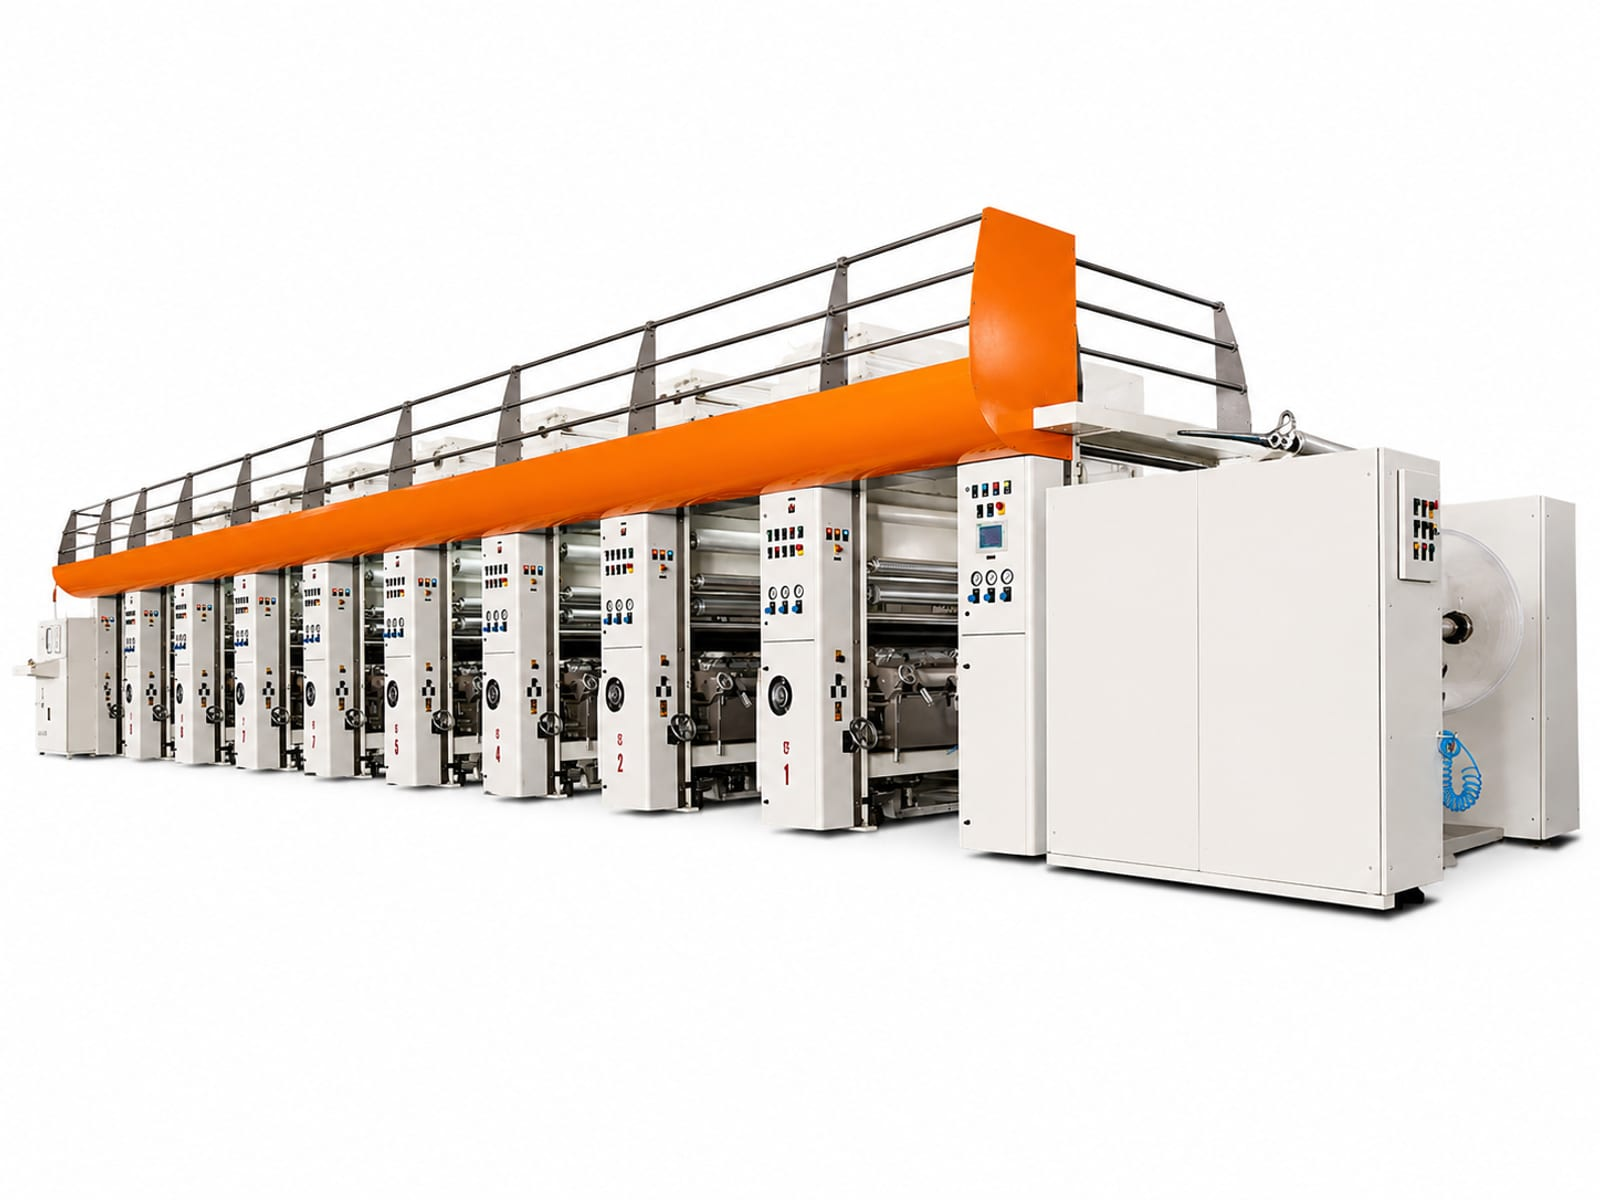
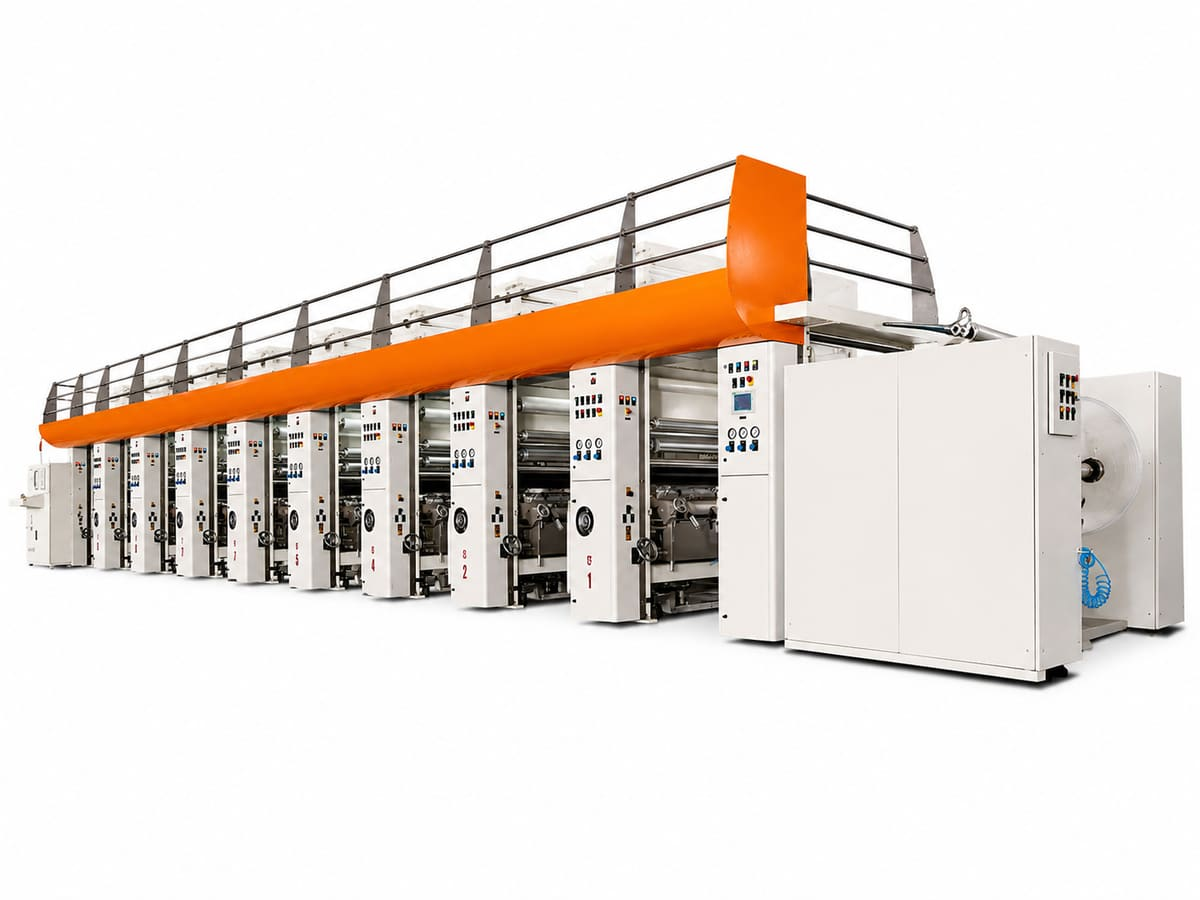
Iteration 16: mobile performance pass
JS bundle cuts (~50KB gzipped saved):
- Removed framer-motion entirely (was top-level dep)
- Hero, HowItWorks, MachinerySection, TrustStrip, TrustedBy:
  CSS keyframes for fade-up/marquee instead of motion.div
- Hero & TrustStrip no longer 'use client' (server-rendered)

LCP improvements:
- Hero image: re-optimized 2000x1250 → 1600x1000 @ q78 (271KB → 173KB)
- factory-hero: 324KB → 225KB
- factory-1: 116KB → 68KB
- Added fetchPriority='high' on hero <Image>
- Tightened Hero sizes prop: 50vw lg, 100vw mobile

Lazy-loading:
- ApplicationCard, ProductCard: loading='lazy' on all 21+ images
- MachineryRotator: only first image eager, others lazy
- ImageCarousel: only active image eager, gallery rest lazy

Other:
- Mobile carousel cap (max-w-sm) on product/app detail pages

diff --git a/src/components/Hero.tsx b/src/components/Hero.tsx
@@ -1,42 +1,29 @@
-'use client';
-
 import Link from 'next/link';
 import Image from 'next/image';
-import { motion } from 'framer-motion';
 import { ArrowRight, MessageCircle } from 'lucide-react';
 import { SITE, whatsappLink } from '@/lib/site';
-
-const fadeUp = {
-  hidden: { opacity: 0, y: 24 },
-  show: (i: number) => ({
-    opacity: 1,
-    y: 0,
-    transition: { duration: 0.7, delay: i * 0.08, ease: [0.22, 1, 0.36, 1] as const },
-  }),
-};
 
 export default function Hero() {
   return (
     <section className="relative">
       <div className="container-x relative grid lg:grid-cols-12 gap-10 lg:gap-12 items-center pt-12 lg:pt-20 pb-12 lg:pb-24">
-        {/* Left: Headline + CTAs */}
-        <div className="lg:col-span-6 xl:col-span-6">
-          <motion.span className="pill" initial="hidden" animate="show" variants={fadeUp} custom={0}>
+        <div className="lg:col-span-6 xl:col-span-6 hero-fade">
+          <span className="pill">
             <span className="w-2 h-2 rounded-full bg-success animate-pulse-soft" />
             Manufacturing in Kolkata since {SITE.foundedYear}
-          </motion.span>
+          </span>
 
-          <motion.h1 className="heading-xl mt-5" initial="hidden" animate="show" variants={fadeUp} custom={1}>
+          <h1 className="heading-xl mt-5">
             Custom flexible packaging,{' '}
             <span className="serif-accent">engineered</span> in Kolkata.
-          </motion.h1>
+          </h1>
 
-          <motion.p className="lede mt-5 max-w-xl" initial="hidden" animate="show" variants={fadeUp} custom={2}>
-            Rotogravure-printed pouches and rolls for atta, namkeen, tea, masala, dairy and more -
+          <p className="lede mt-5 max-w-2xl">
+            Rotogravure-printed pouches and rolls for atta, namkeen, tea, masala, dairy and more —
             built in West Bengal, shipped across India. MOQ from {SITE.stats.minOrderKg}&nbsp;kg.
-          </motion.p>
+          </p>
 
-          <motion.div className="mt-7 flex flex-wrap gap-3" initial="hidden" animate="show" variants={fadeUp} custom={3}>
+          <div className="mt-8 flex flex-wrap gap-3">
             <Link href="/contact" className="btn-primary text-base">
               Get a Quote <ArrowRight className="w-4 h-4" />
             </Link>
@@ -49,67 +36,49 @@ export default function Hero() {
             >
               <MessageCircle className="w-4 h-4" /> WhatsApp
             </a>
-          </motion.div>
+          </div>
 
-          <motion.div
-            className="mt-7 flex flex-col sm:flex-row sm:items-center flex-wrap gap-x-6 gap-y-2 text-sm text-ink-500"
-            initial="hidden" animate="show" variants={fadeUp} custom={4}
-          >
+          <div className="mt-10 flex flex-col sm:flex-row sm:items-center flex-wrap gap-x-6 gap-y-2 text-sm text-ink-500">
             <span><strong className="text-ink-900 font-semibold">{SITE.stats.yearsInBusiness}+</strong> years in business</span>
             <span className="hidden sm:block w-1 h-1 rounded-full bg-ink-400 opacity-50" />
             <span><strong className="text-ink-900 font-semibold">8-colour</strong> rotogravure</span>
-            <span className="hidden sm:block w-1 h-1 rounded-full bg-ink-400 opacity-50" />
-            <span><strong className="text-ink-900 font-semibold">300 kg</strong> minimum order</span>
-          </motion.div>
+          </div>
         </div>
 
-        {/* Right: Hero image with full landscape display */}
-        <motion.div
-          className="lg:col-span-6 xl:col-span-6 relative"
-          initial={{ opacity: 0, scale: 0.96, y: 20 }}
-          animate={{ opacity: 1, scale: 1, y: 0 }}
-          transition={{ duration: 0.9, delay: 0.3, ease: [0.22, 1, 0.36, 1] }}
-        >
+        <div className="lg:col-span-6 xl:col-span-6 relative hero-fade-img">
           <div className="relative aspect-[16/10] sm:aspect-[16/10] rounded-3xl overflow-hidden glass p-2 shadow-glass">
             <div className="relative w-full h-full rounded-2xl overflow-hidden bg-white">
               <Image
                 src="/images/hero/hero-1.jpg"
-                alt="Arihant Packaging - custom flexible packaging manufactured in Kolkata"
+                alt="Custom printed flexible packaging pouches by Arihant Packaging"
                 fill
                 priority
-                sizes="(min-width:1280px) 640px, (min-width:1024px) 50vw, 100vw"
+                fetchPriority="high"
+                sizes="(min-width:1024px) 50vw, 100vw"
                 className="object-cover object-center"
               />
+              <div className="absolute inset-x-0 bottom-0 bg-gradient-to-t from-ink-900/75 via-ink-900/10 to-transparent p-5">
+                <div className="text-white font-semibold">Stand-up zipper pouches</div>
+                <div className="text-white/80 text-sm">Retail-ready format</div>
+              </div>
             </div>
           </div>
 
-          {/* Floating glass cards */}
-          <motion.div
-            className="hidden md:flex absolute bottom-5 left-5 items-center gap-3 px-4 py-3 rounded-2xl glass-strong animate-floaty"
-            initial={{ opacity: 0, x: -20 }}
-            animate={{ opacity: 1, x: 0 }}
-            transition={{ delay: 0.9, duration: 0.6 }}
-          >
+          <div className="hidden lg:flex absolute bottom-24 -left-4 items-center gap-3 px-4 py-3 rounded-2xl glass-strong animate-floaty">
             <div className="w-9 h-9 rounded-xl grid place-items-center text-white text-xs font-bold" style={{ backgroundImage: 'linear-gradient(135deg, #1F4E79, #2F6FB0)' }}>8</div>
             <div>
-              <div className="font-bold text-ink-900 leading-none text-sm">Up to 8 colours</div>
-              <div className="text-[10px] uppercase tracking-wider text-ink-700 mt-1">Rotogravure</div>
+              <div className="font-bold text-ink-900 leading-none">Up to 8 colours</div>
+              <div className="text-[11px] uppercase tracking-wider text-ink-700 mt-1">Rotogravure</div>
             </div>
-          </motion.div>
-          <motion.div
-            className="hidden md:flex absolute top-5 right-5 items-center gap-3 px-4 py-3 rounded-2xl glass-strong animate-floaty"
-            style={{ animationDelay: '-3s' }}
-            initial={{ opacity: 0, x: 20 }}
-            animate={{ opacity: 1, x: 0 }}
-            transition={{ delay: 1.1, duration: 0.6 }}
-          >
-            <div className="w-9 h-9 rounded-xl bg-brand-50 border border-brand-100 grid place-items-center text-brand-600 text-xs font-bold">kg</div>
+          </div>
+          <div className="hidden lg:flex absolute top-16 -right-4 items-center gap-3 px-4 py-3 rounded-2xl glass-strong animate-floaty" style={{ animationDelay: '-3s' }}>
+            <div className="w-9 h-9 rounded-xl bg-brand-50 border border-brand-100 grid place-items-center text-brand-600 text-sm font-bold">kg</div>
             <div>
-              <div className="font-bold text-ink-900 leading-none text-sm">From 300 kg</div>
-              <div className="text-[10px] uppercase tracking-wider text-ink-700 mt-1">Minimum order</div>
+              <div className="font-bold text-ink-900 leading-none">From 300 kg</div>
+              <div className="text-[11px] uppercase tracking-wider text-ink-700 mt-1">Minimum order</div>
             </div>
-          </motion.div>
-        </motion.div>
+          </div>
+        </div>
       </div>
     </section>
   );

diff --git a/src/components/TrustedBy.tsx b/src/components/TrustedBy.tsx
@@ -1,7 +1,3 @@
-'use client';
-
-import { motion } from 'framer-motion';
-
 const INDUSTRIES = [
   'Atta',
   'Namkeen',
@@ -21,21 +17,14 @@ const INDUSTRIES = [
 ];
 
 export default function TrustedBy() {
-  // Duplicate the list so the marquee can scroll seamlessly
   const items = [...INDUSTRIES, ...INDUSTRIES];
 
   return (
     <section className="py-12 sm:py-16 overflow-hidden">
       <div className="container-x text-center">
-        <motion.div
-          initial={{ opacity: 0, y: 8 }}
-          whileInView={{ opacity: 1, y: 0 }}
-          viewport={{ once: true, margin: '-50px' }}
-          transition={{ duration: 0.6 }}
-          className="text-xs sm:text-sm font-semibold uppercase tracking-[0.18em] text-ink-500"
-        >
+        <div className="text-xs sm:text-sm font-semibold uppercase tracking-[0.18em] text-ink-500">
           Industries we serve — trusted by manufacturers and FMCG brands across India
-        </motion.div>
+        </div>
       </div>
 
       <div
@@ -56,16 +45,6 @@ export default function TrustedBy() {
           ))}
         </div>
       </div>
-
-      <style jsx>{`
-        @keyframes marquee {
-          0% { transform: translateX(0); }
-          100% { transform: translateX(-50%); }
-        }
-        :global(.animate-marquee) {
-          animation: marquee 40s linear infinite;
-        }
-      `}</style>
     </section>
   );
 }

diff --git a/src/app/globals.css b/src/app/globals.css
@@ -203,3 +203,25 @@ img { max-width: 100%; height: auto; }
     100% { transform: translate(-30px,40px) scale(0.96); }
   }
 }
+
+/* Hero fade-in (replaces framer-motion to save ~50KB JS on first paint) */
+@keyframes heroFadeUp {
+  from { opacity: 0; transform: translateY(16px); }
+  to { opacity: 1; transform: translateY(0); }
+}
+.hero-fade { animation: heroFadeUp 0.7s ease-out both; }
+.hero-fade-img { animation: heroFadeUp 0.9s ease-out 0.15s both; }
+
+/* Lightweight on-load fade-up (used by HowItWorks, MachinerySection) */
+@keyframes fadeUp {
+  from { opacity: 0; transform: translateY(12px); }
+  to { opacity: 1; transform: translateY(0); }
+}
+.animate-fade-up { animation: fadeUp 0.6s ease-out both; }
+
+/* Industries marquee (TrustedBy) */
+@keyframes marquee {
+  0% { transform: translateX(0); }
+  100% { transform: translateX(-50%); }
+}
+.animate-marquee { animation: marquee 40s linear infinite; }

diff --git a/src/components/HowItWorks.tsx b/src/components/HowItWorks.tsx
@@ -1,6 +1,3 @@
-'use client';
-
-import { motion } from 'framer-motion';
 import { MessageSquare, CheckSquare, Cog, Settings, Layers, Scissors, PackageOpen, Truck } from 'lucide-react';
 
 const STEPS = [
@@ -32,20 +29,17 @@ export default function HowItWorks() {
           <div className="hidden xl:block absolute top-7 left-0 right-0 h-px border-t border-dashed border-brand-300/50 mx-[6%]" aria-hidden="true" />
 
           {STEPS.map((s, i) => (
-            <motion.div
+            <div
               key={s.title}
-              initial={{ opacity: 0, y: 16 }}
-              whileInView={{ opacity: 1, y: 0 }}
-              viewport={{ once: true, margin: '-80px' }}
-              transition={{ duration: 0.5, delay: i * 0.06 }}
-              className="text-center flex flex-col items-center relative"
+              className="text-center flex flex-col items-center relative animate-fade-up"
+              style={{ animationDelay: `${i * 60}ms` }}
             >
               <div className="w-14 h-14 rounded-full bg-white border border-brand-100 shadow-card grid place-items-center text-brand-600 relative z-10">
                 <s.icon className="w-6 h-6" strokeWidth={1.8} />
               </div>
               <div className="mt-4 font-semibold text-ink-900 text-sm sm:text-base">{i + 1}. {s.title}</div>
               <p className="mt-2 text-xs sm:text-[13px] text-ink-500 leading-snug max-w-[180px]">{s.desc}</p>
-            </motion.div>
+            </div>
           ))}
         </div>
       </div>

diff --git a/src/components/MachinerySection.tsx b/src/components/MachinerySection.tsx
@@ -1,7 +1,4 @@
-'use client';
-
 import Image from 'next/image';
-import { motion } from 'framer-motion';
 
 const MACHINES = [
   {
@@ -38,14 +35,7 @@ export default function MachinerySection() {
 
         <div className="mt-12 grid md:grid-cols-3 gap-6">
           {MACHINES.map((m, i) => (
-            <motion.div
-              key={m.name}
-              className="card overflow-hidden"
-              initial={{ opacity: 0, y: 16 }}
-              whileInView={{ opacity: 1, y: 0 }}
-              viewport={{ once: true, margin: '-80px' }}
-              transition={{ duration: 0.6, delay: i * 0.08 }}
-            >
+            <div key={m.name} className="card overflow-hidden animate-fade-up" style={{ animationDelay: `${i * 80}ms` }}>
               <div className="relative aspect-[4/3] bg-ink-100">
                 <Image
                   src={m.image}
@@ -59,7 +49,7 @@ export default function MachinerySection() {
                 <h3 className="font-semibold text-lg text-ink-900">{m.name}</h3>
                 <p className="text-sm text-ink-600 mt-2 leading-relaxed">{m.desc}</p>
               </div>
-            </motion.div>
+            </div>
           ))}
         </div>
       </div>

diff --git a/src/components/TrustStrip.tsx b/src/components/TrustStrip.tsx
@@ -1,6 +1,3 @@
-'use client';
-
-import { motion } from 'framer-motion';
 import { Award, Calendar, Layers, Palette, ShieldCheck } from 'lucide-react';
 import { SITE } from '@/lib/site';
 
@@ -19,13 +16,9 @@ export default function TrustStrip() {
         <div className="glass rounded-3xl px-6 py-5">
           <div className="grid grid-cols-2 sm:grid-cols-3 lg:grid-cols-5 gap-4 sm:gap-6">
             {items.map(({ icon: Icon, label, sub }, i) => (
-              <motion.div
+              <div
                 key={label}
-                className="flex items-center gap-3 text-left"
-                initial={{ opacity: 0, y: 12 }}
-                whileInView={{ opacity: 1, y: 0 }}
-                viewport={{ once: true, margin: '-50px' }}
-                transition={{ duration: 0.5, delay: i * 0.07 }}
+                className="flex items-center gap-3 text-left animate-fade-up" style={{ animationDelay: `${i * 50}ms` }}
               >
                 <div className="flex-shrink-0 w-11 h-11 rounded-2xl bg-gradient-to-br from-brand-100 to-brand-50 border border-brand-200/60 grid place-items-center text-brand-600">
                   <Icon className="w-5 h-5" />
@@ -34,7 +27,7 @@ export default function TrustStrip() {
                   <div className="text-sm font-semibold text-ink-900 leading-tight">{label}</div>
                   <div className="text-xs text-ink-500 leading-tight">{sub}</div>
                 </div>
-              </motion.div>
+              </div>
             ))}
           </div>
         </div>

diff --git a/src/components/ProductCard.tsx b/src/components/ProductCard.tsx
@@ -14,7 +14,8 @@ export default function ProductCard({ product }: { product: Product }) {
           src={product.image}
           alt={product.title}
           fill
-          sizes="(min-width:1024px) 25vw, (min-width:640px) 50vw, 100vw"
+          sizes="(min-width:1024px) 25vw, (min-width:640px) 33vw, 50vw"
+          loading="lazy"
           className="object-contain p-3 group-hover:scale-105 transition-transform duration-500"
         />
         <div className="absolute top-3 right-3 bg-white/95 backdrop-blur rounded-full p-2 shadow-sm opacity-0 group-hover:opacity-100 transition-opacity">

diff --git a/src/components/ApplicationCard.tsx b/src/components/ApplicationCard.tsx
@@ -15,6 +15,7 @@ export default function ApplicationCard({ app }: { app: Application }) {
           alt={app.title}
           fill
           sizes="(min-width:1024px) 25vw, (min-width:640px) 33vw, 50vw"
+          loading="lazy"
           className="object-cover group-hover:scale-105 transition-transform duration-500"
         />
         <div className="absolute top-3 right-3 bg-white/95 backdrop-blur rounded-full p-2 shadow-sm opacity-0 group-hover:opacity-100 transition-opacity">

diff --git a/src/components/ImageCarousel.tsx b/src/components/ImageCarousel.tsx
@@ -58,6 +58,7 @@ export default function ImageCarousel({ images, alt, priority = false, sizes = '
               src={src}
               alt={`${alt} — image ${i + 1} of ${total}`}
               fill
+              loading={i === 0 ? 'eager' : 'lazy'}
               priority={priority && i === 0}
               sizes={sizes}
               className="object-cover"

diff --git a/src/components/MachineryRotator.tsx b/src/components/MachineryRotator.tsx
@@ -31,6 +31,7 @@ export default function MachineryRotator() {
             fill
             sizes="(min-width:1024px) 50vw, 100vw"
             className="object-cover"
+            loading={i === 0 ? 'eager' : 'lazy'}
             priority={i === 0}
           />
         </div>